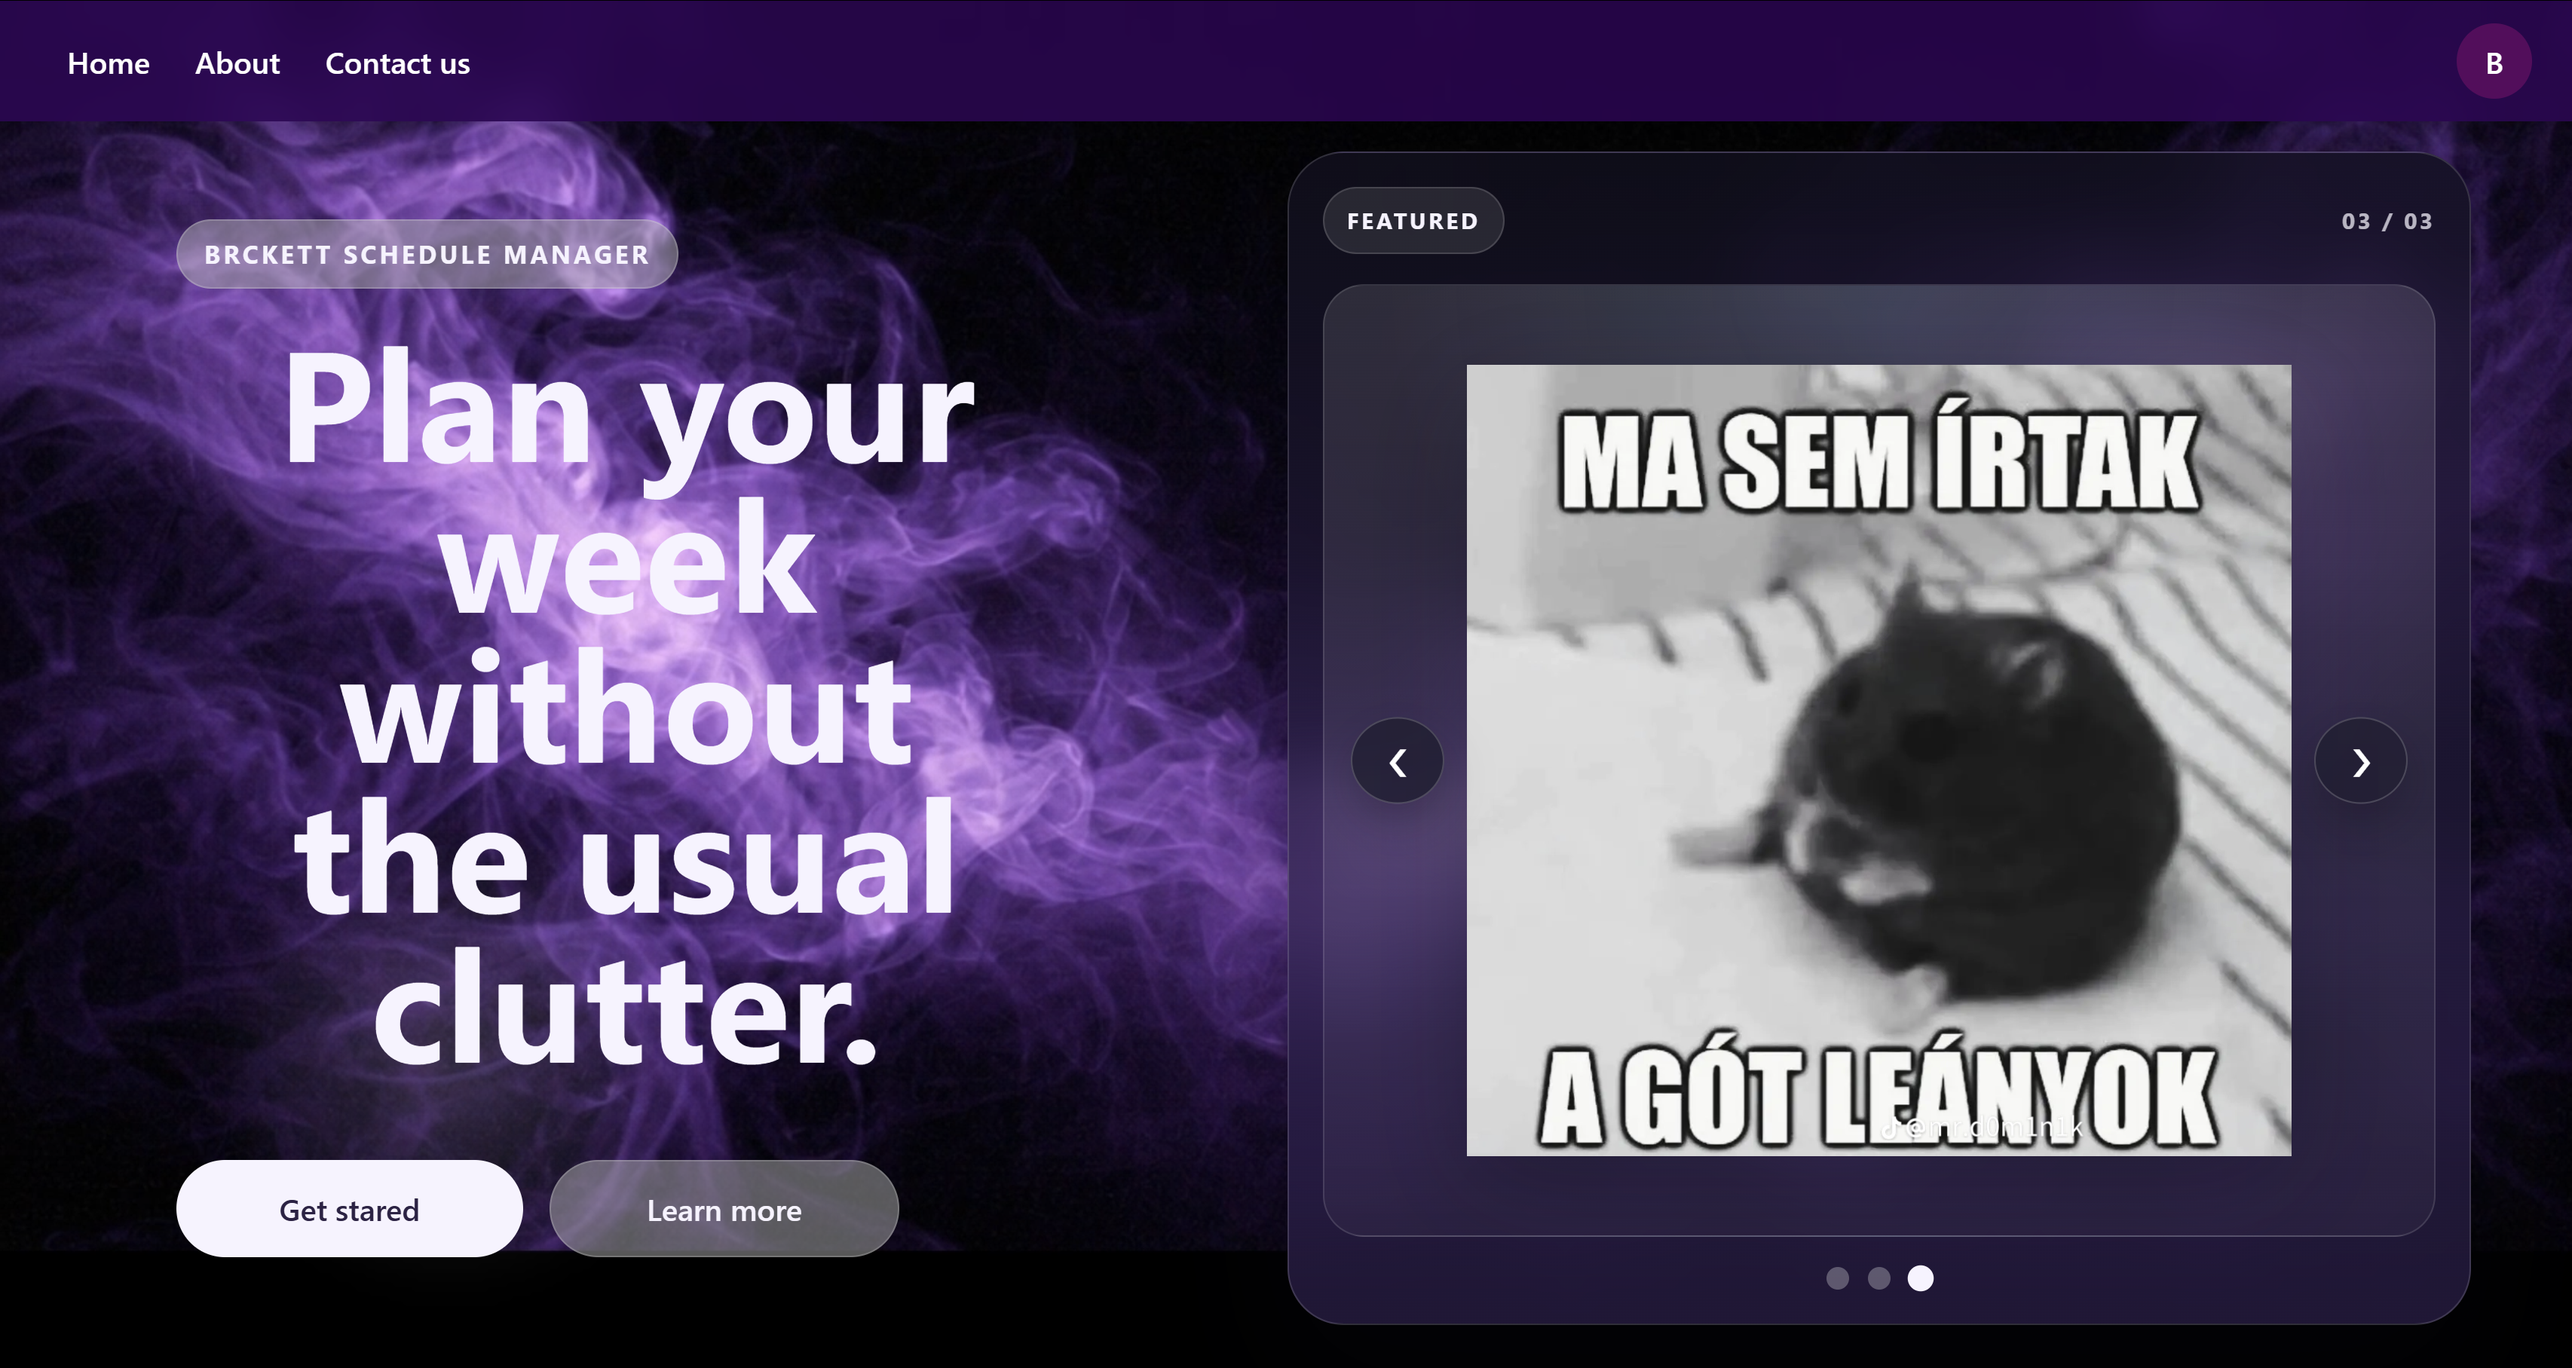
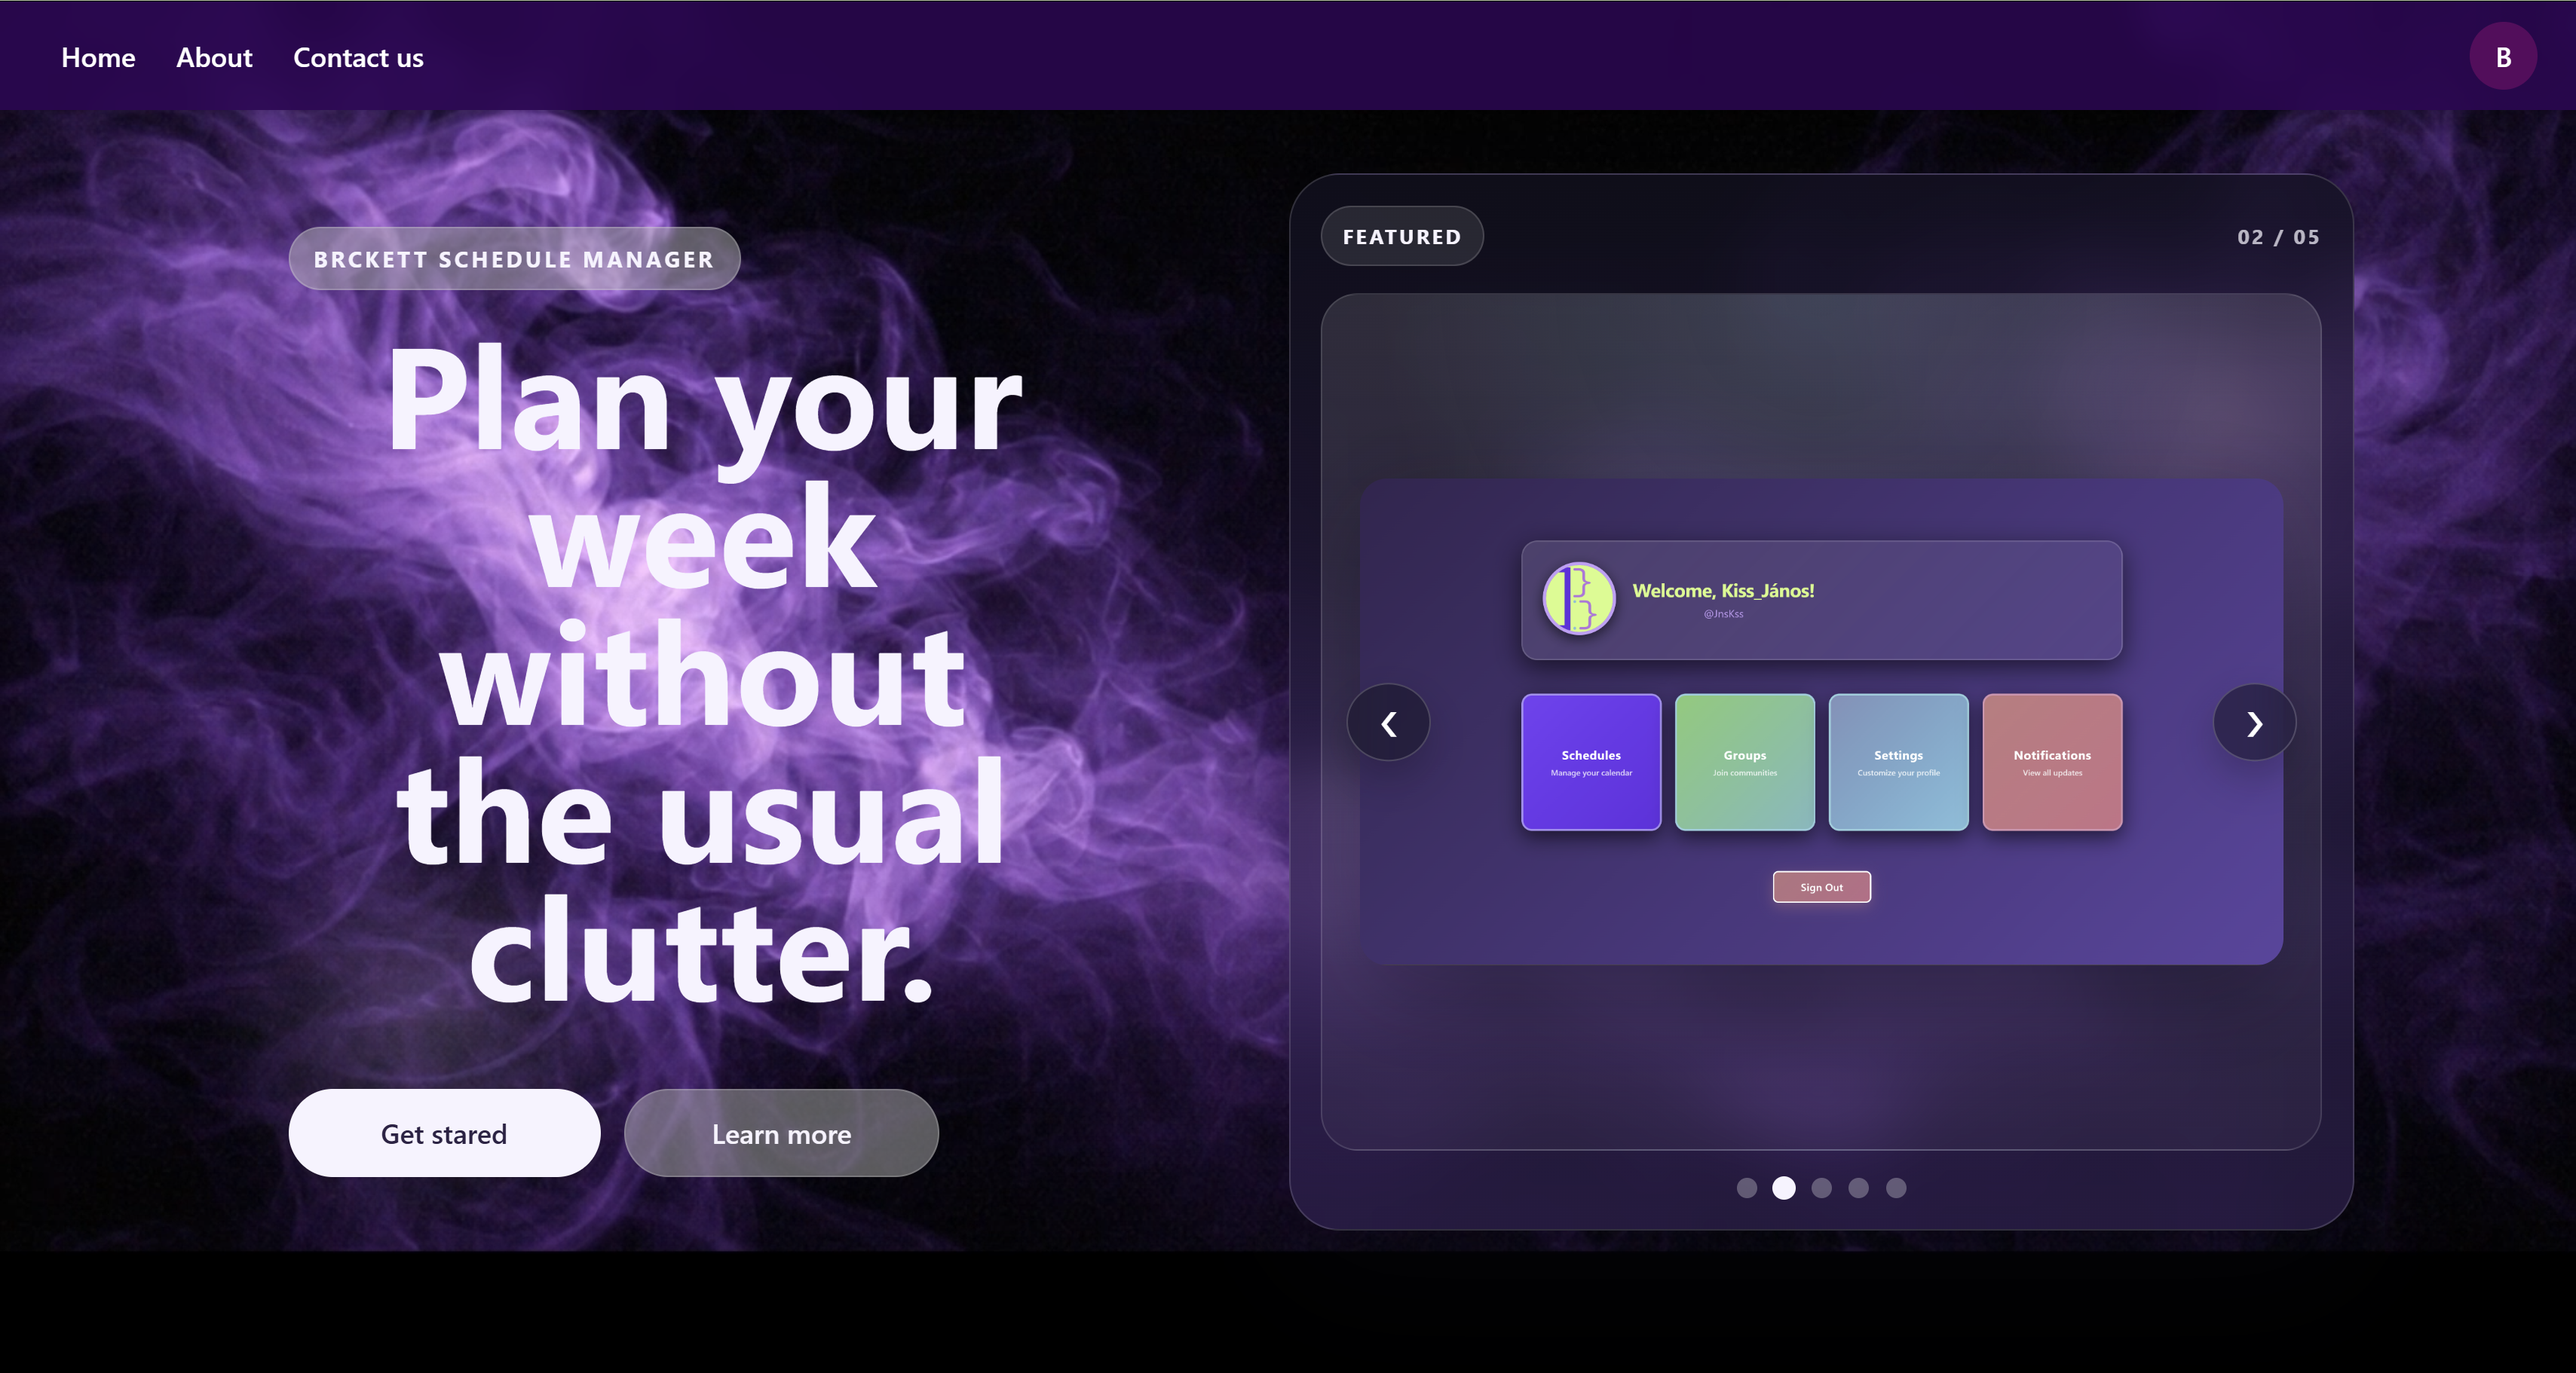
ScheduleWindowFix, CarouselIMGs

diff --git a/FINAL REACT/BrckETT/src/css/CalendarView.css b/FINAL REACT/BrckETT/src/css/CalendarView.css
@@ -342,6 +342,112 @@ body:has(.calendarView-container) {
     transform: translateY(-2px);
 }
 
+/* Popup Modal Styling */
+.calendarView-container .popup-overlay {
+    position: fixed;
+    top: 15%;
+    bottom: 15%;
+    left: 0;
+    right: 0;
+    background: transparent;
+    display: flex;
+    align-items: center;
+    justify-content: center;
+    z-index: 1000;
+    backdrop-filter: blur(4px);
+}
+
+.calendarView-container .popup-content {
+    background: linear-gradient(135deg, rgba(110, 41, 167, 0.65), rgba(75, 20, 130, 0.65));
+    border: 2px solid rgba(199, 114, 255, 0.4);
+    backdrop-filter: blur(16px);
+    border-radius: 20px;
+    padding: 16px 20px;
+    width: 90%;
+    max-width: 420px;
+    box-shadow: 0 8px 32px rgba(0, 0, 0, 0.3), inset 0 1px 1px rgba(255, 255, 255, 0.1);
+    display: flex;
+    flex-direction: column;
+    gap: 8px;
+}
+
+.calendarView-container .popup-content h2 {
+    color: #c1ff72;
+    font-size: 16px;
+    margin: 0 0 6px 0;
+    text-align: center;
+    font-weight: 700;
+}
+
+.calendarView-container .popup-content input {
+    background: rgba(140, 60, 200, 0.5);
+    color: var(--cv-fgcolor);
+    border: 1.5px solid rgba(199, 114, 255, 0.5);
+    padding: 8px 10px;
+    border-radius: 8px;
+    font-family: inherit;
+    font-size: 12px;
+    transition: all 0.3s ease;
+    width: 100%;
+    box-sizing: border-box;
+}
+
+.calendarView-container .popup-content input:focus {
+    outline: none;
+    background: rgba(140, 60, 200, 0.7);
+    border-color: #00FFF7;
+    box-shadow: 0 0 12px rgba(0, 255, 247, 0.3);
+}
+
+.calendarView-container .popup-content input::placeholder {
+    color: rgba(168, 250, 80, 0.6);
+}
+
+.calendarView-container .sch-edit-inputs {
+    display: flex;
+    gap: 8px;
+    width: 100%;
+    flex-wrap: wrap;
+    justify-content: center;
+}
+
+.calendarView-container .popup-content button {
+    background: linear-gradient(135deg, var(--cv-btnbgcolor), rgba(136, 58, 201, 0.6));
+    color: var(--cv-fgcolor);
+    border: 1.5px solid var(--cv-btnhovercolor);
+    padding: 8px 14px;
+    border-radius: 8px;
+    cursor: pointer;
+    font-weight: 600;
+    font-size: 12px;
+    transition: all 0.3s ease;
+    min-width: 80px;
+}
+
+.calendarView-container .popup-content button:hover {
+    background: linear-gradient(135deg, var(--cv-btnhovercolor), rgba(199, 114, 255, 0.7));
+    transform: translateY(-2px);
+    box-shadow: 0 4px 12px rgba(199, 114, 255, 0.3);
+    border-color: #00FFF7;
+}
+
+.calendarView-container .popup-content button:active {
+    transform: translateY(0);
+}
+
+.calendarView-container .sch-dlt-btn {
+    background: linear-gradient(135deg, #ff4444, #cc0000) !important;
+    color: white !important;
+    border: 1.5px solid #aa0000 !important;
+}
+
+.calendarView-container .sch-dlt-btn:hover {
+    background: linear-gradient(135deg, #ff6666, #dd0000) !important;
+    filter: brightness(110%);
+    transform: translateY(-2px);
+    box-shadow: 0 4px 12px rgba(255, 68, 68, 0.4) !important;
+}
+
 /* Tablet Responsiveness 
 @media (max-width: 1024px) {
     .calendarView-leftSide {

diff --git a/FINAL REACT/BrckETT/src/FrontPage.jsx b/FINAL REACT/BrckETT/src/FrontPage.jsx
@@ -2,8 +2,10 @@ import "./css/FrontPage.css";
 import { Link } from 'react-router-dom'
 import { useState, useEffect, useRef } from "react";
 import Image from "./assets/Brckett Logo.png";
-import Image2 from "./assets/naptar.png";
-import Image3 from "./assets/masem.png";
+import Image2 from "./assets/ProfileModule.png";
+import Image3 from "./assets/SchedulesWeekly.png";
+import Image4 from "./assets/SchedulesDaily.png";
+import Image5 from "./assets/SchedulesMonthly.png";
 import BgVideo from "./assets/BrckEtt_BG.mp4";
 
 const slides = [
@@ -13,11 +15,19 @@ const slides = [
   },
   {
     image: Image2,
-    alt: "Random Calendar",
+    alt: "ProfileModule",
   },
   {
     image: Image3,
-    alt: "Horcsog",
+    alt: "Weekly Schedules",
+  },
+  {
+    image: Image4,
+    alt: "Daily Schedules",
+  },
+  {
+    image: Image5,
+    alt: "Monthly Schedules",
   },
 ];
 
@@ -55,22 +65,29 @@ export default function FrontPage()
     const [translate, setTranslate] = useState(0);
     const [isDragging, setIsDragging] = useState(false);
   const [activePopup, setActivePopup] = useState(null);
+  const slideCount = slides.length;
 
     const prevImage = () => {
-    setCurrentIndex((currentIndex - 1 + slides.length) % slides.length);
+    setCurrentIndex(prev => (prev === 0 ? slideCount - 1 : prev - 1));
   };
 
     const nextImage = () => {
-    setCurrentIndex((currentIndex + 1) % slides.length);
+    setCurrentIndex(prev => (prev === slideCount - 1 ? 0 : prev + 1));
   };
 
   useEffect(() => {
   const interval = setInterval(() => {
-    setCurrentIndex(prev => (prev + 1) % slides.length);
+    setCurrentIndex(prev => (prev === slideCount - 1 ? 0 : prev + 1));
   }, 5000);
 
   return () => clearInterval(interval);
-}, []);
+}, [slideCount]);
+
+useEffect(() => {
+  if (currentIndex >= slideCount) {
+    setCurrentIndex(0);
+  }
+}, [currentIndex, slideCount]);
 
 const startX = useRef(0);
 const pointerIdRef = useRef(null);

diff --git a/FINAL REACT/BrckETT/src/CalendarView.jsx b/FINAL REACT/BrckETT/src/CalendarView.jsx
@@ -262,12 +262,13 @@ export default function CalendarView({schedulesList, callAPIFunc, LayoutSettings
                     <h2>Edit Schedule</h2>
                     <input type="text" placeholder="Schedule Info" value={editScheduleInfo} onChange={(e) => setEditScheduleInfo(e.target.value)} />
                     <input type="text" placeholder="Template Info" value={editTemplateInfo} onChange={(e) => setEditTemplateInfo(e.target.value)} />
-                    <button onClick={() => handleDeleteSchedule()} className='sch-dlt-btn'>Delete</button>
                     
                     <div className='sch-edit-inputs'>
                         <button onClick={() => handleEditSchedule()}>Save</button>
                         <button onClick={() => setEditSchedulePopup("hidden")}>Cancel</button>
                     </div>
+                    
+                    <button onClick={() => handleDeleteSchedule()} className='sch-dlt-btn'>Delete</button>
                 </div>
             </div>}
 
